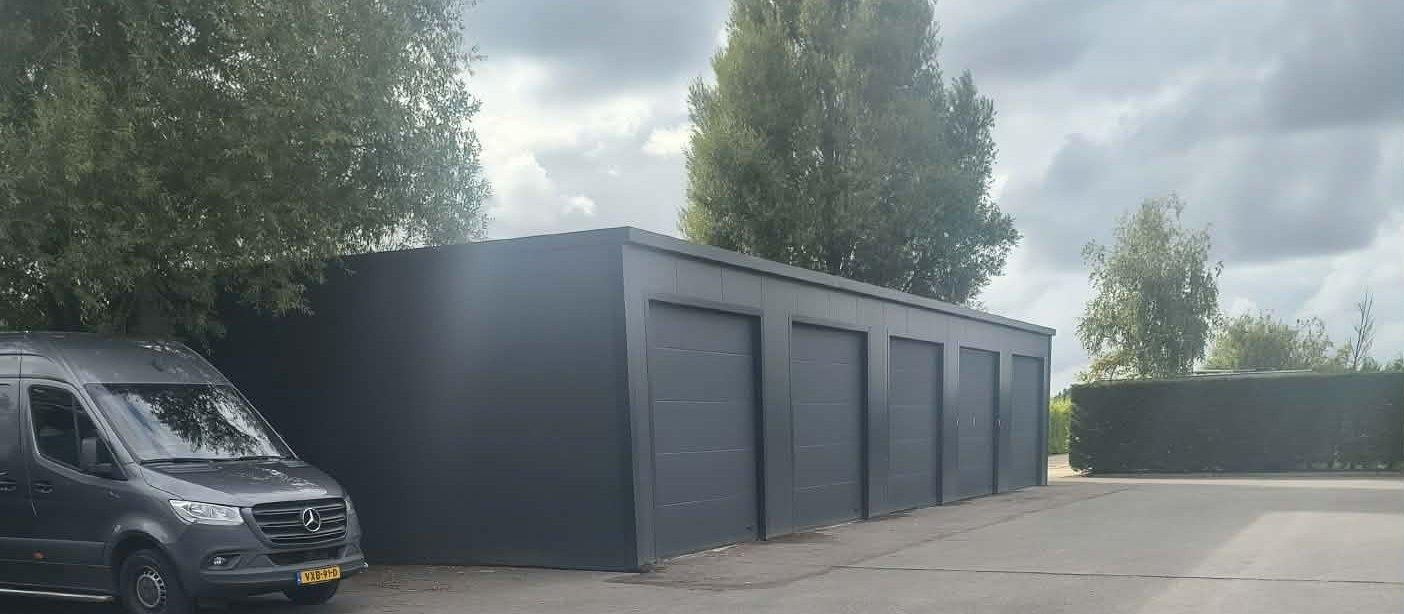
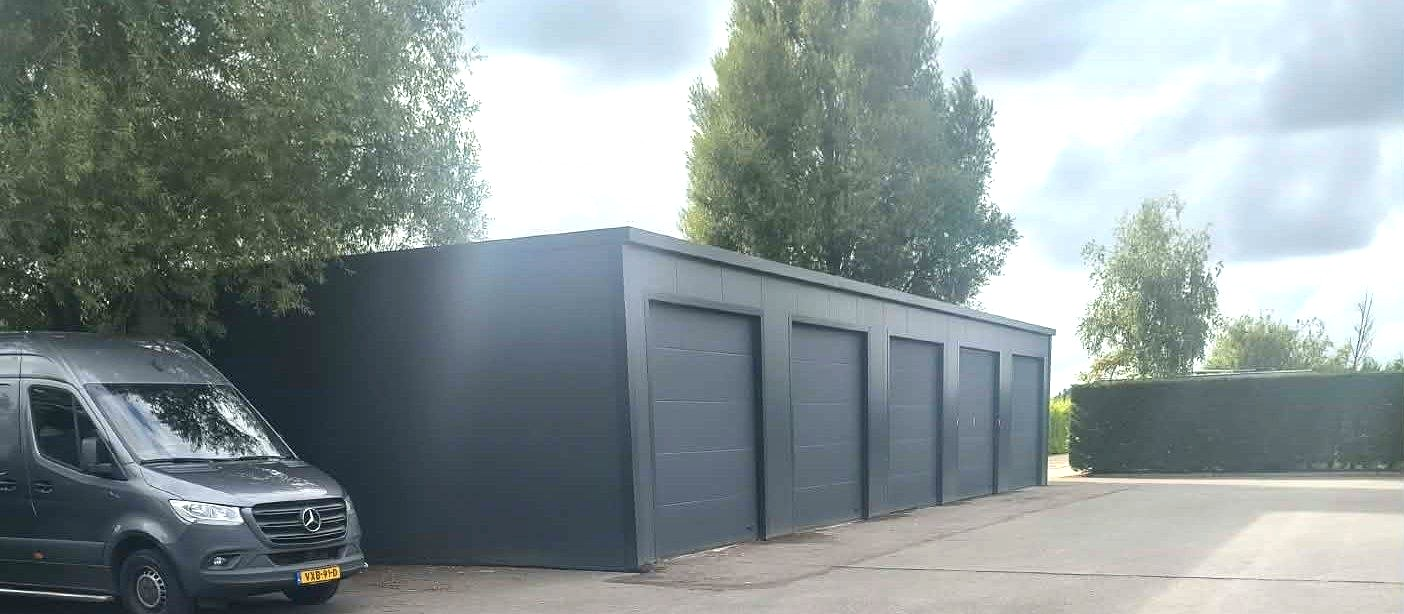
Brighten hero photo and reframe to show the delivery van
Lifts brightness/contrast/saturation on hero-banner.jpg and shifts the
hero background-position so the delivery van next to the garage doors
is visible instead of being cropped out on most viewport sizes.

diff --git a/style.css b/style.css
@@ -185,11 +185,11 @@
   .hero-bg{
     position:absolute;inset:0;
     background-image:url('hero-banner.jpg');
-    background-size:cover;background-position:60% 50%;
-    opacity:0.6;
+    background-size:cover;background-position:8% 46%;
+    opacity:0.7;
   }
   @media (max-width:600px){
-    .hero-bg{background-position:58% 50%;}
+    .hero-bg{background-position:2% 46%;}
   }
   .hero-fade{
     position:absolute;inset:0;
